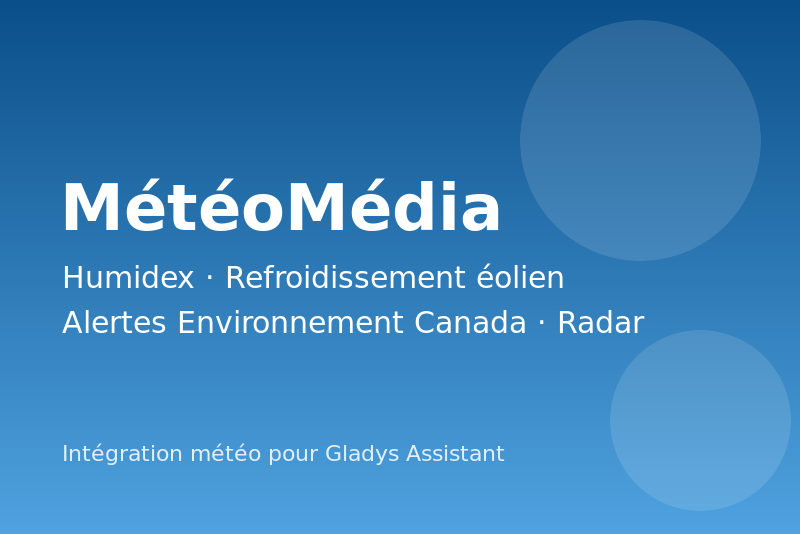
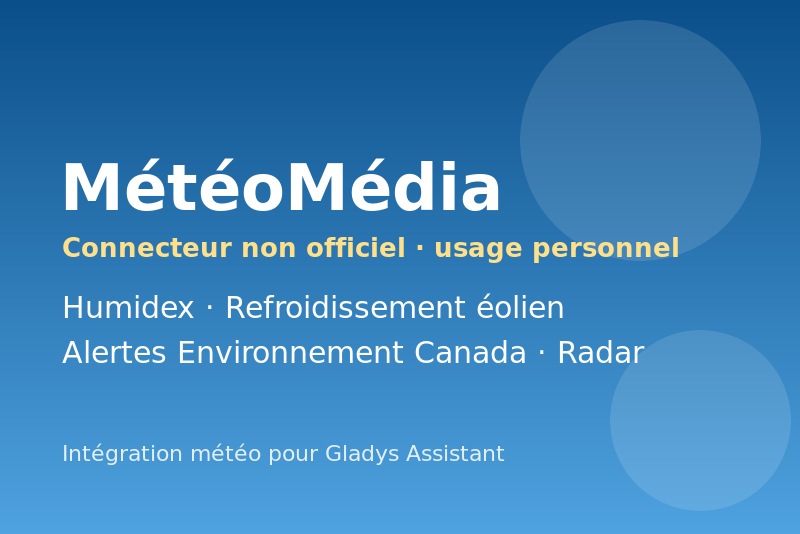
State that the connector is unofficial and for personal use
Keep the "MétéoMédia" name, and say everywhere a user meets it that this
is an unofficial connector, for personal use, not affiliated with
Pelmorex: catalog description, configuration intro (with a link to the
MétéoMédia terms of use), cover, README and docs. Record the decision in
TODO.md and CLAUDE.md: no store topic without Pelmorex's consent.

Claude-Session: https://claude.ai/code/session_01FAzGfihdnS5iYkniks3aK8

Changed region(s): [[0.0625, 0.2996, 0.875, 0.6891]]

diff --git a/TODO.md b/TODO.md
@@ -4,11 +4,14 @@
 
 - [ ] **Repository name and licence** — `gladys-meteomedia`, Apache-2.0 (the
       template's) for now.
-- [ ] **Public store publication** — subject to the Pelmorex terms of use:
-      the API is undocumented and reserved for their own apps a priori. Do
-      not add the `gladys-assistant-integration` topic before checking.
-      The name "MétéoMédia" is a Pelmorex trademark: a neutral name may be
-      required.
+- [x] **Name and store publication** (decided 2026-10-10) — personal use
+      only, the name "MétéoMédia" is kept with "unofficial connector,
+      personal use" in the catalog description, the configuration intro, the
+      cover and the docs. The Pelmorex terms of use forbid robots, scraping,
+      caching and software built on their content without written consent:
+      **do not add the `gladys-assistant-integration` topic** (it publishes
+      to the public store) unless Pelmorex agrees, or ECCC becomes the
+      primary source.
 - [x] **ECCC alert endpoint** — `api.weather.gc.ca/collections/weather-alerts`
       (verified 2026-10-10: polygons, `risk_colour_en`, `alert_type`,
       `status_en`).

diff --git a/docs/fr.md b/docs/fr.md
@@ -1,5 +1,14 @@
 # MétéoMédia pour Gladys
 
+> **Connecteur non officiel, pour un usage personnel.** Ce projet n'est ni
+> affilié à Pelmorex, propriétaire de MétéoMédia, ni approuvé par elle. Il
+> utilise les données de son site, dont les
+> [conditions d'utilisation](https://www.meteomedia.com/fr/infos/conditions-dutilisation)
+> réservent l'accès automatisé à un usage personnel et non commercial : vous
+> êtes responsable de les respecter. « MétéoMédia » est une marque déposée de
+> Pelmorex Weather Networks (Television) Inc., citée uniquement pour désigner
+> le service auquel le connecteur se relie.
+
 Cette intégration fait de **MétéoMédia** le fournisseur météo de Gladys :
 le widget météo du tableau de bord et l'assistant (« quel temps fera-t-il
 demain ? ») utilisent ses prévisions. Elle est pensée pour le Québec et le

diff --git a/docs/en.md b/docs/en.md
@@ -1,5 +1,14 @@
 # MétéoMédia for Gladys
 
+> **Unofficial connector, for personal use.** This project is neither
+> affiliated with nor endorsed by Pelmorex, owner of MétéoMédia and The
+> Weather Network. It uses the data of their website, whose
+> [terms of use](https://www.theweathernetwork.com/terms-of-use) restrict
+> automated access to personal, non-commercial use: you are responsible for
+> complying with them. "MétéoMédia" is a registered trademark of Pelmorex
+> Weather Networks (Television) Inc., named only to identify the service the
+> connector talks to.
+
 This integration makes **MétéoMédia** (The Weather Network) the weather
 provider of Gladys: the dashboard weather widget and the assistant ("what
 will the weather be tomorrow?") use its forecasts. It is built for Québec

diff --git a/README.md b/README.md
@@ -1,5 +1,14 @@
 # MétéoMédia for Gladys Assistant
 
+> **Unofficial connector, for personal use.** This project is neither
+> affiliated with nor endorsed by Pelmorex, owner of MétéoMédia and The
+> Weather Network. It reads the data of their website, whose
+> [terms of use](https://www.theweathernetwork.com/terms-of-use) restrict
+> automated access to personal, non-commercial use: each user is
+> responsible for complying with them. "MétéoMédia" is a registered
+> trademark of Pelmorex Weather Networks (Television) Inc., used here only to
+> name the service the connector talks to.
+
 A **weather provider** external integration for
 [Gladys Assistant](https://gladysassistant.com), fed by **MétéoMédia / The
 Weather Network** (Pelmorex), with **Environment and Climate Change Canada**

diff --git a/CLAUDE.md b/CLAUDE.md
@@ -58,6 +58,13 @@ happen only in `src/pivot.js` (and in the widget / scene texts).
 
 ## Rules
 
+- **Unofficial, personal use.** Pelmorex's terms of use forbid automated
+  access without written consent: the project is not published in the
+  Gladys store (no `gladys-assistant-integration` topic), and every
+  user-facing surface (manifest description and intro, cover, README, docs)
+  says "unofficial connector, personal use". Never use MétéoMédia logos or
+  icons, and keep the "not affiliated with Pelmorex" notice.
+
 - **Keys are forever**: manifest `config_schema`, `actions`, widget,
   scene-trigger and level keys (`cold_high`…) are stored in user scenes and
   dashboards. Never rename them.

diff --git a/CHANGELOG.md b/CHANGELOG.md
@@ -10,6 +10,12 @@ the notes of the version's GitHub Release.
 
 ## [Unreleased]
 
+### Changed
+
+- The integration says it is an unofficial MétéoMédia connector for personal
+  use, not affiliated with Pelmorex: catalog description, configuration
+  intro (with a link to the MétéoMédia terms of use), cover and docs.
+
 ## [0.1.1] - 2026-10-10
 
 ### Added
